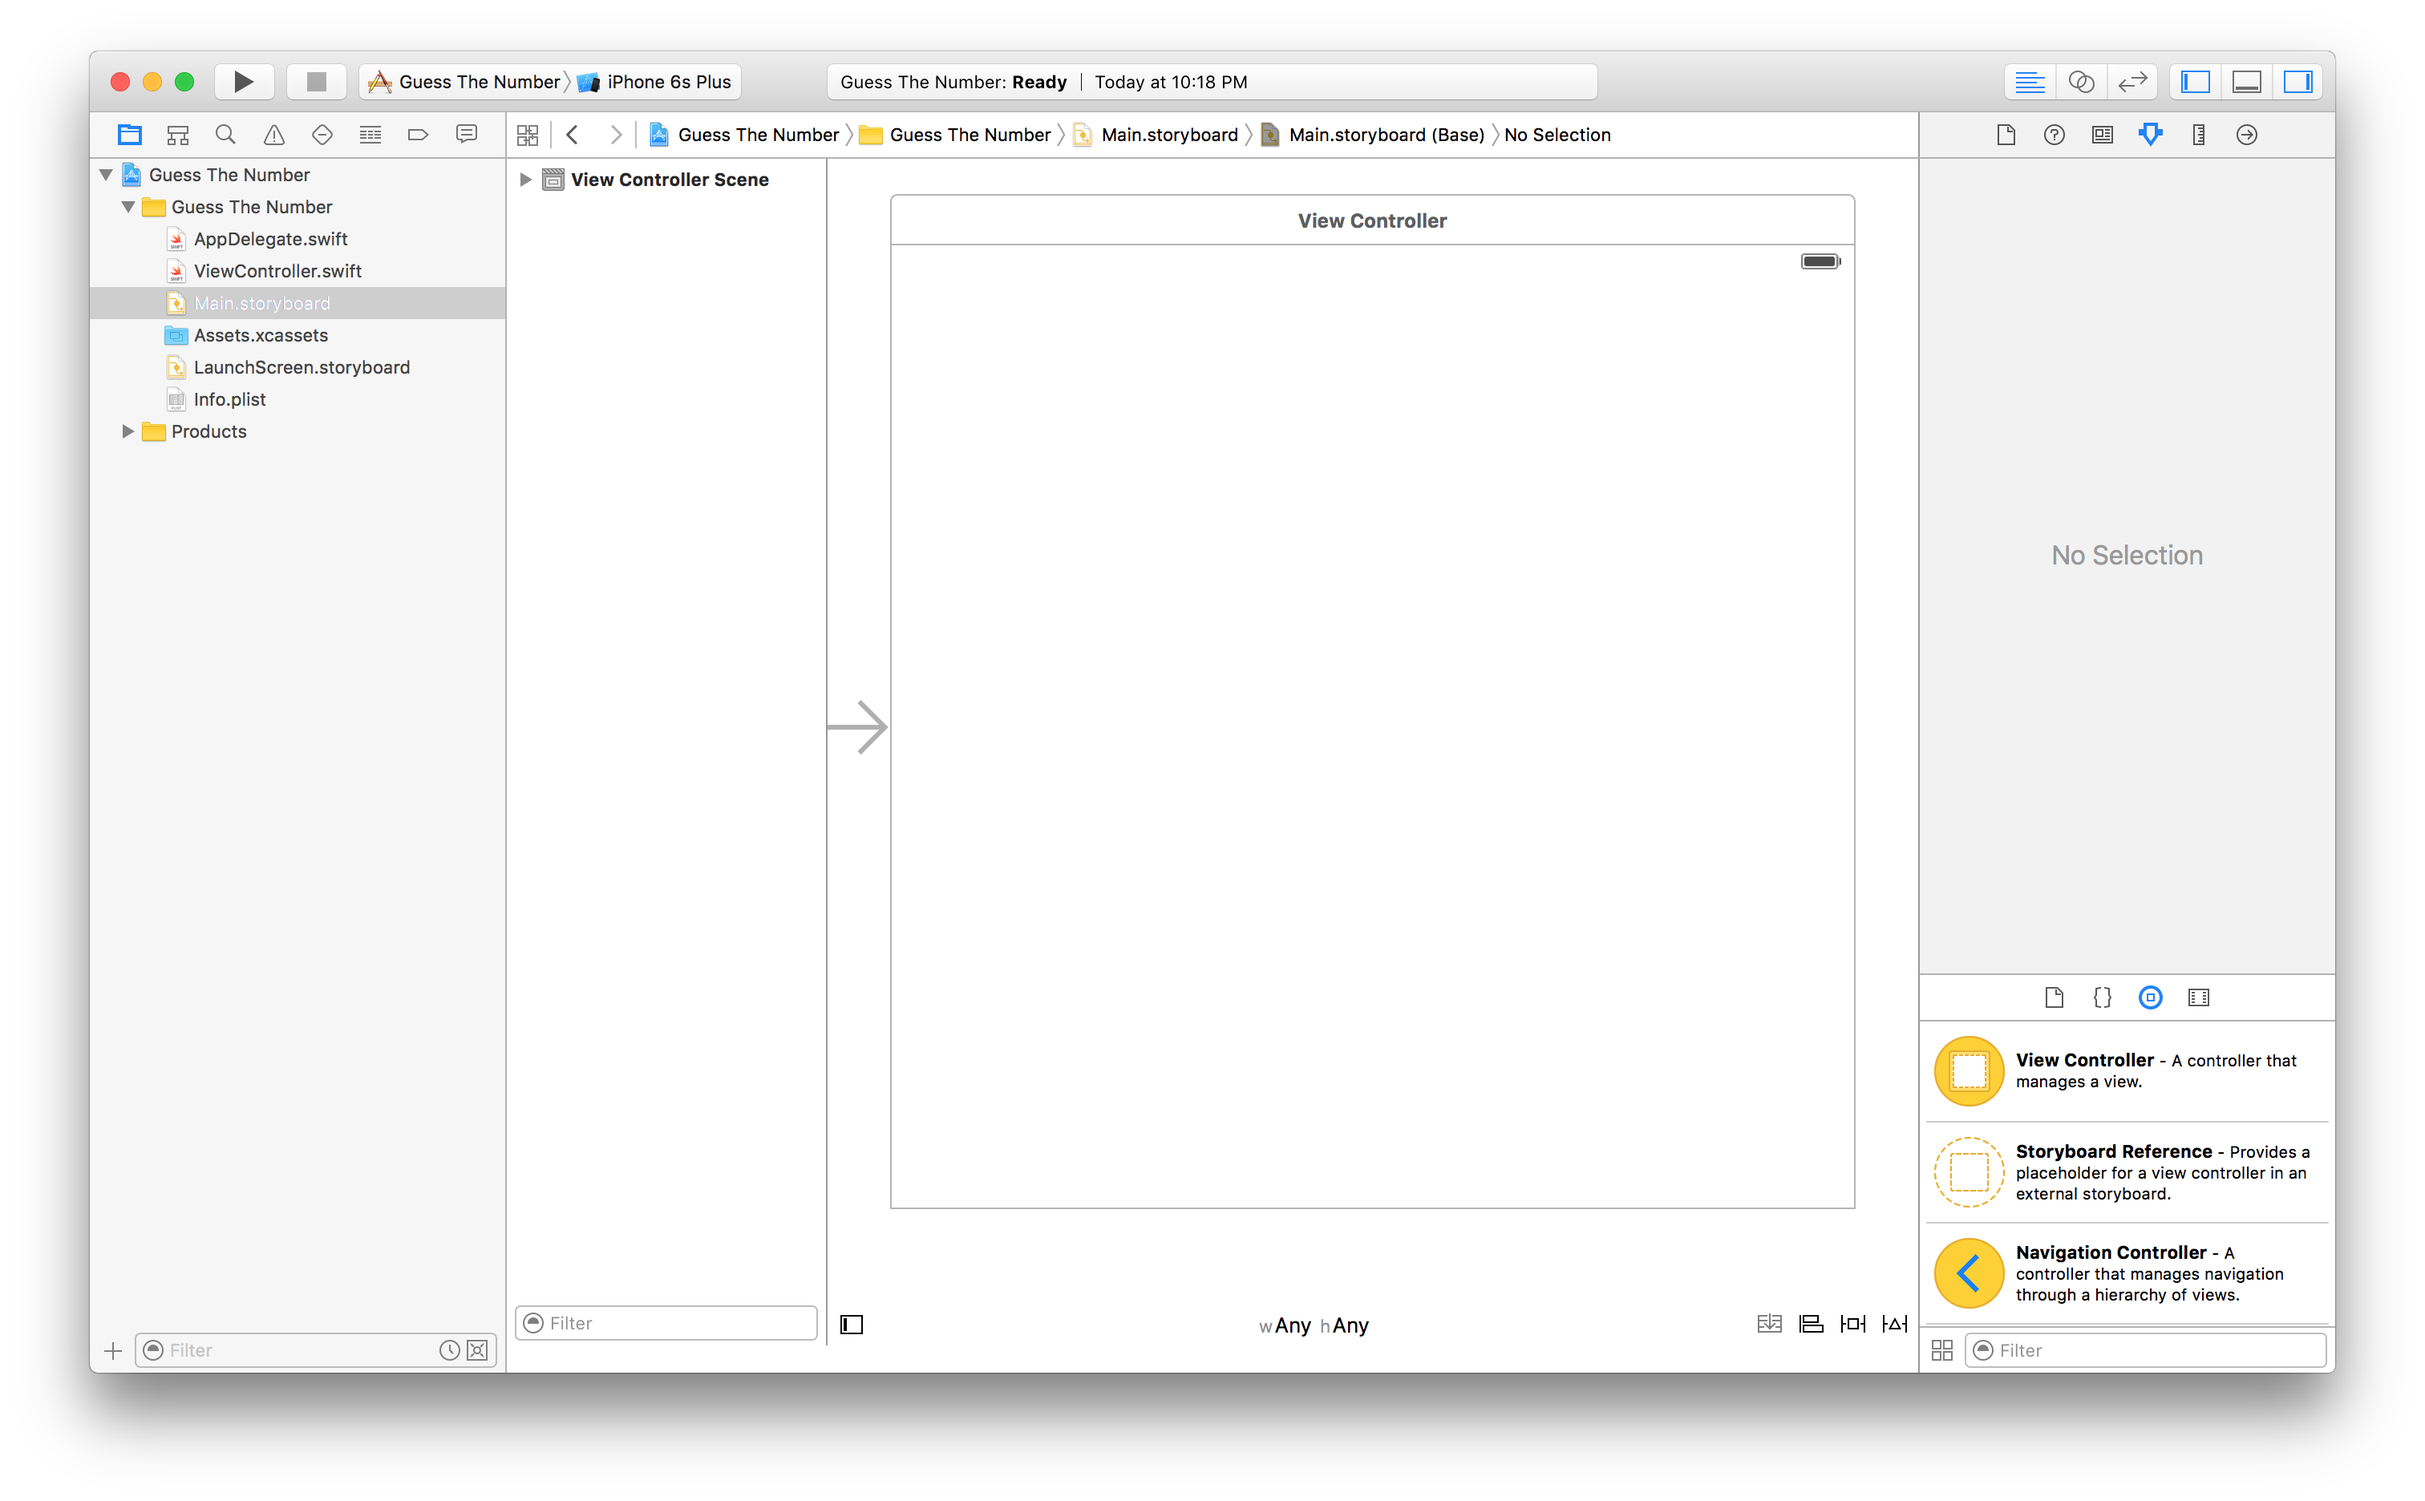
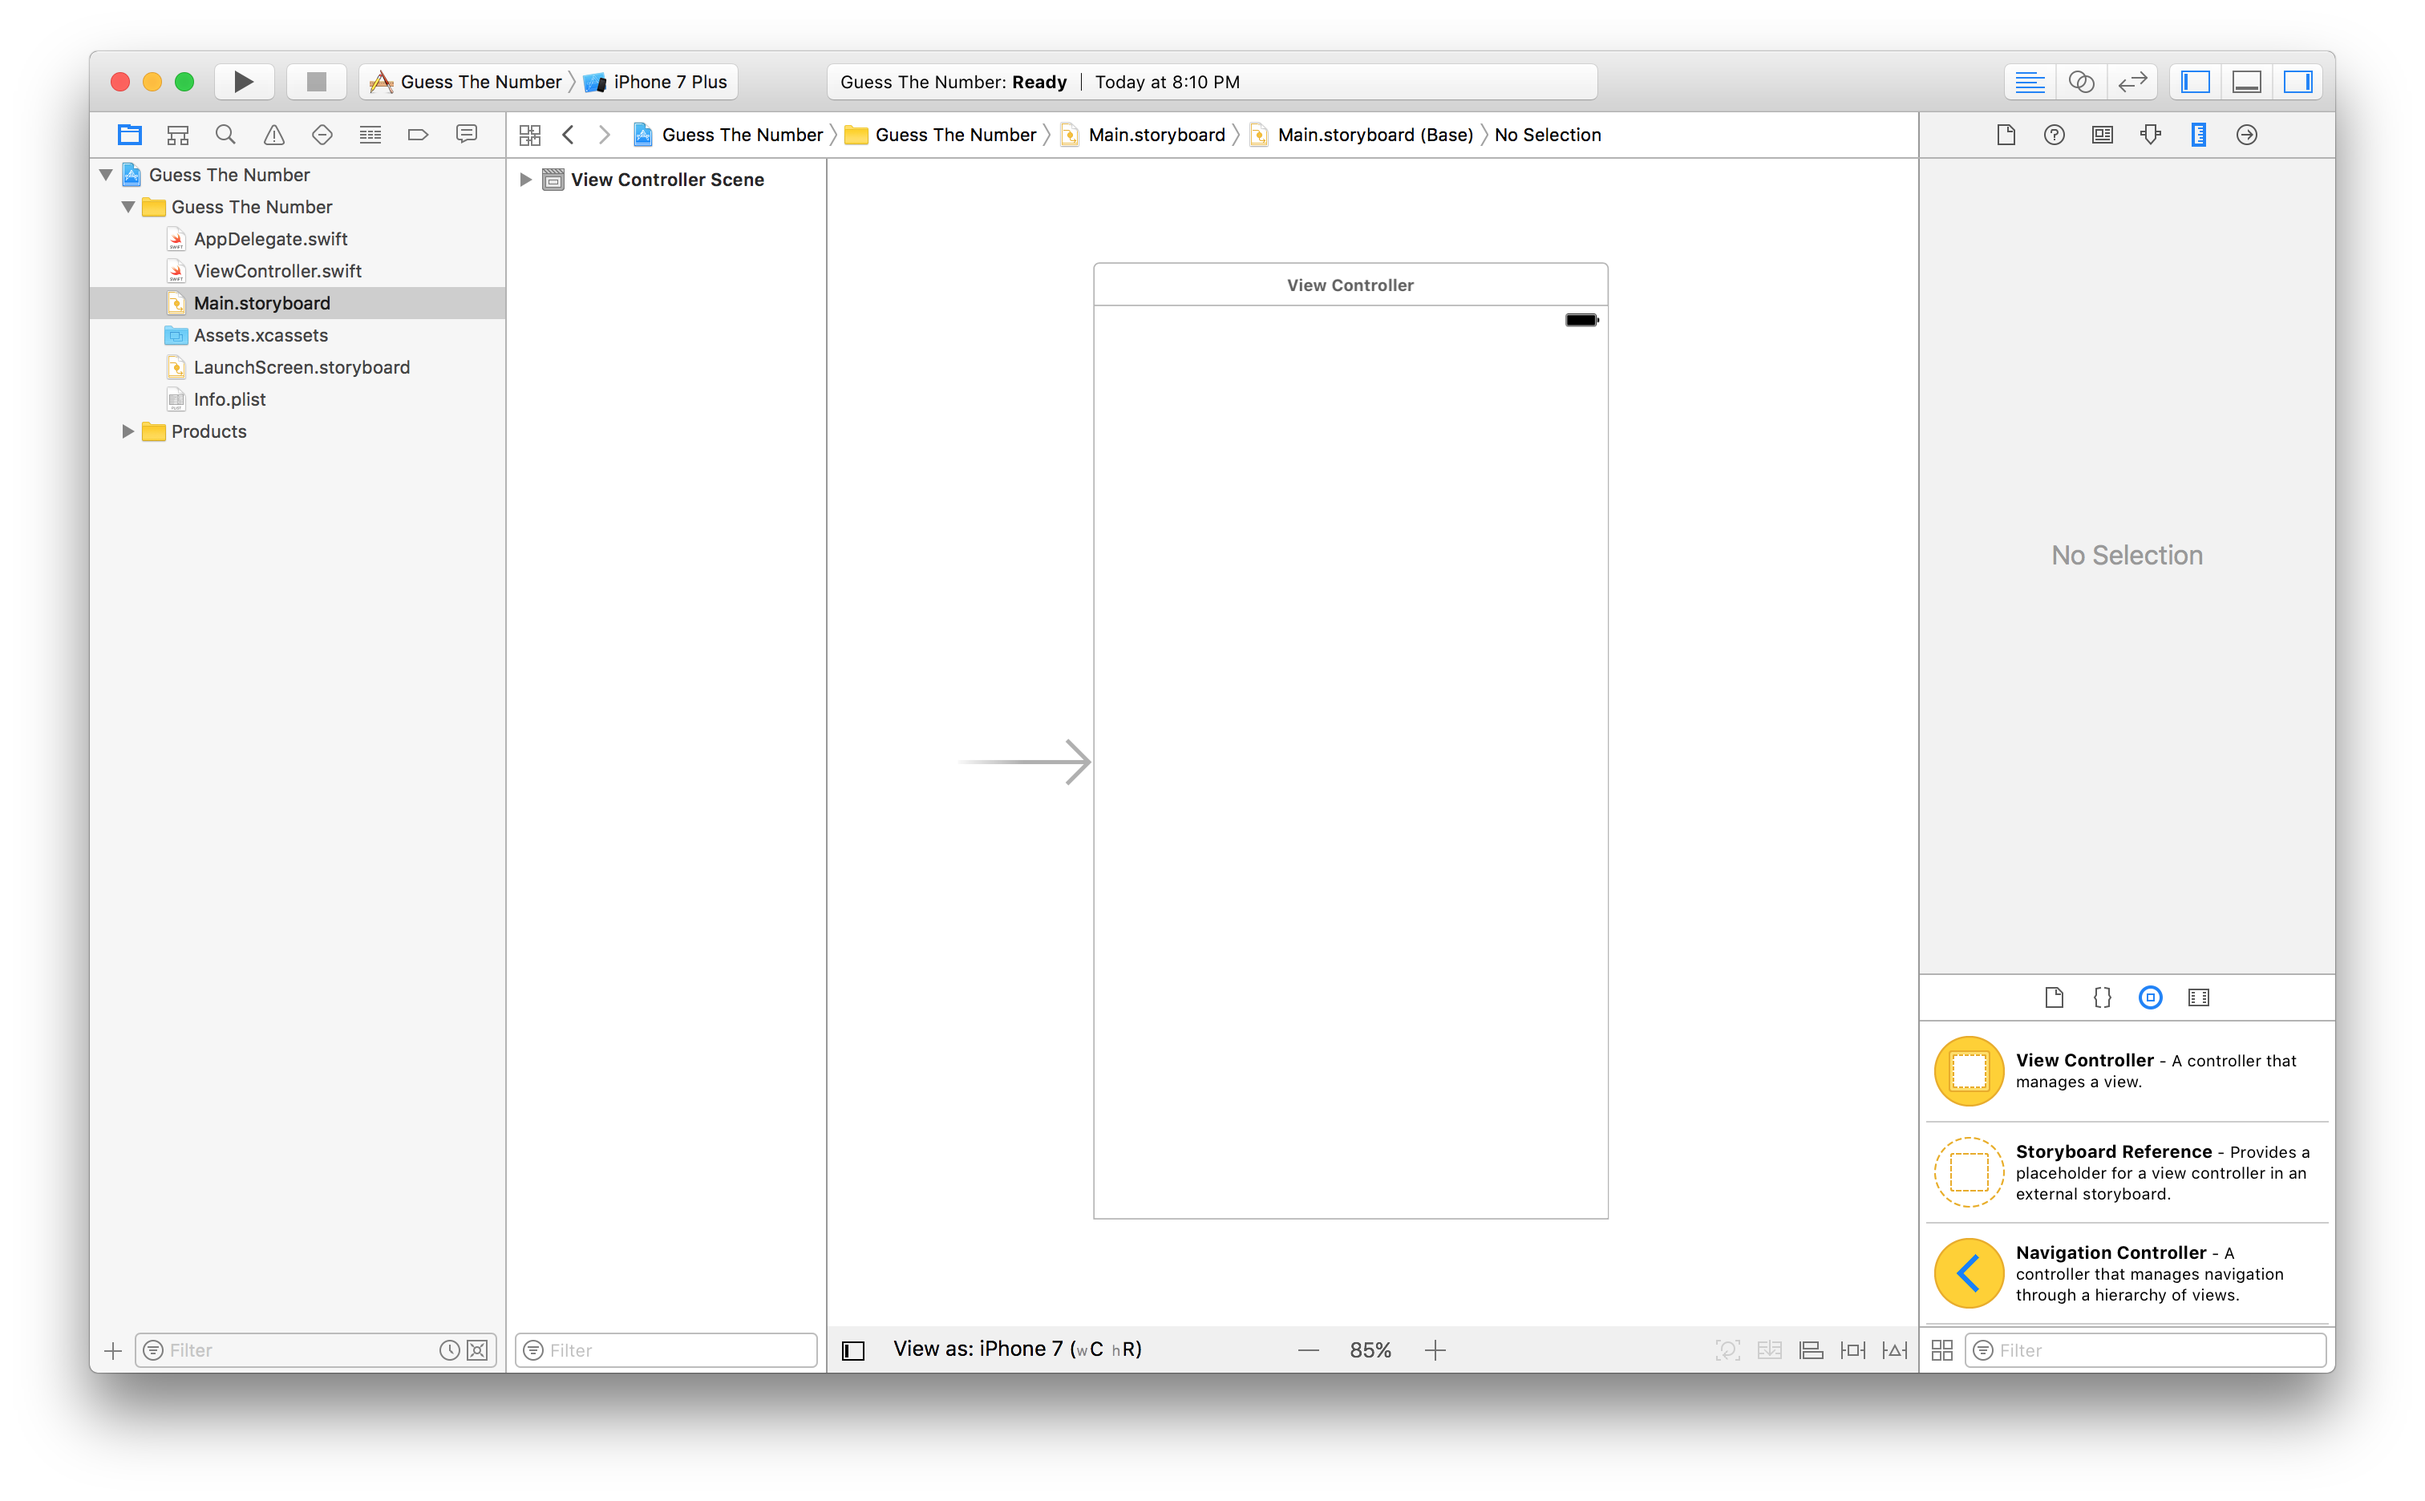
updated to xcode8

diff --git a/tutorials/guess-the-number/part2.md b/tutorials/guess-the-number/part2.md
@@ -14,13 +14,13 @@ You should see something that looks like this. There are three important parts w
 3. **The Inspector:** This pane is where you modify anything and everything. It shows options for whatever you have selected.
 4. **UI Palette:** Nestled at the bottom of the inspector, the UI Palette is where you find the components that you use to build your interfaces.
 
-That big white square in the middle is your first View Controller. Any changes you make to this view will appear on your screen when you run the app.
+That screen in the middle is your first View Controller. Any changes you make to this view will appear on your screen when you run the app.
 
-Let's first change the square to look a bit more like an iPhone 6s. Click on the view controller and look for a yellow circle at the top of the view controller (or look at the margin.) Click on the yellow circle to select the view controller and then click on the **Attributes Inspector** tab in the inspector panel on the right. Change the size to a `iPhone 4.7 Inch` screen:
+Notice in the bottom left corner of the Editor Canvas a button that says `View as: iPhone 7 (wC, hR)`. If you click on it it should pop up your Size and Orientation panel:
 
 <p align="center"> <img src="../images/guess-the-number/vcSize.png" align="center" style="max-width:75%"> </p>
 
-Great! It should look like an iPhone 6s now. In the future, you may need to use the full square size/size classes (out of good practice), but for the purpose of this tutorial, we'll use iPhone 6s size.
+Here is where you can view your app in different screen sizes and orientation. The cool thing about XCode is that you can layout your views to fit any screen size and orientation, all on one app. For the purpose of this tutorial, keep the setting at iPhone 7.
 
 Now, for this Guess the Number game, there are 3 parts in the interface we're building:
 1. A label to display the title of the game
